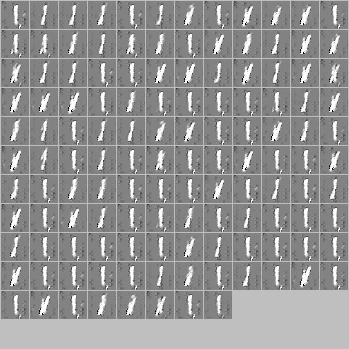
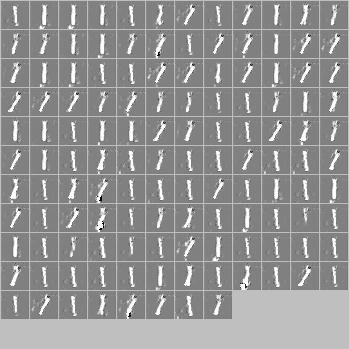
New run mnist

diff --git a/models.py b/models.py
@@ -33,7 +33,7 @@ class ALOCC_Model():
     def __init__(self,
                input_height=28,input_width=28, output_height=28, output_width=28,
                attention_label=1, is_training=True,
-               z_dim=100, gf_dim=16, df_dim=16, c_dim=3,
+               z_dim=100, gf_dim=64, df_dim=64, c_dim=3,
                dataset_name=None, dataset_address=None, input_fname_pattern=None,
                log_dir=cfg.log_dir, r_alpha = 0.2,
                kb_work_on_patch=True, nd_patch_size=(10, 10), n_stride=1,

diff --git a/log/mnist/orig_arch/configuration.py b/log/mnist/orig_arch/configuration.py
@@ -1,6 +1,6 @@
-# Training started at: 2018-11-29 10:42:51.954800
-# Training ended at: 2018-11-29 10:42:51.954800
-# Training duration: 0h 2m 14.04s
+# Training started at: 2018-11-29 10:50:19.680499
+# Training ended at: 2018-11-29 10:50:19.680499
+# Training duration: 0h 4m 54.73s
 from pathlib import Path
 import datetime
 class Configuration(object):
